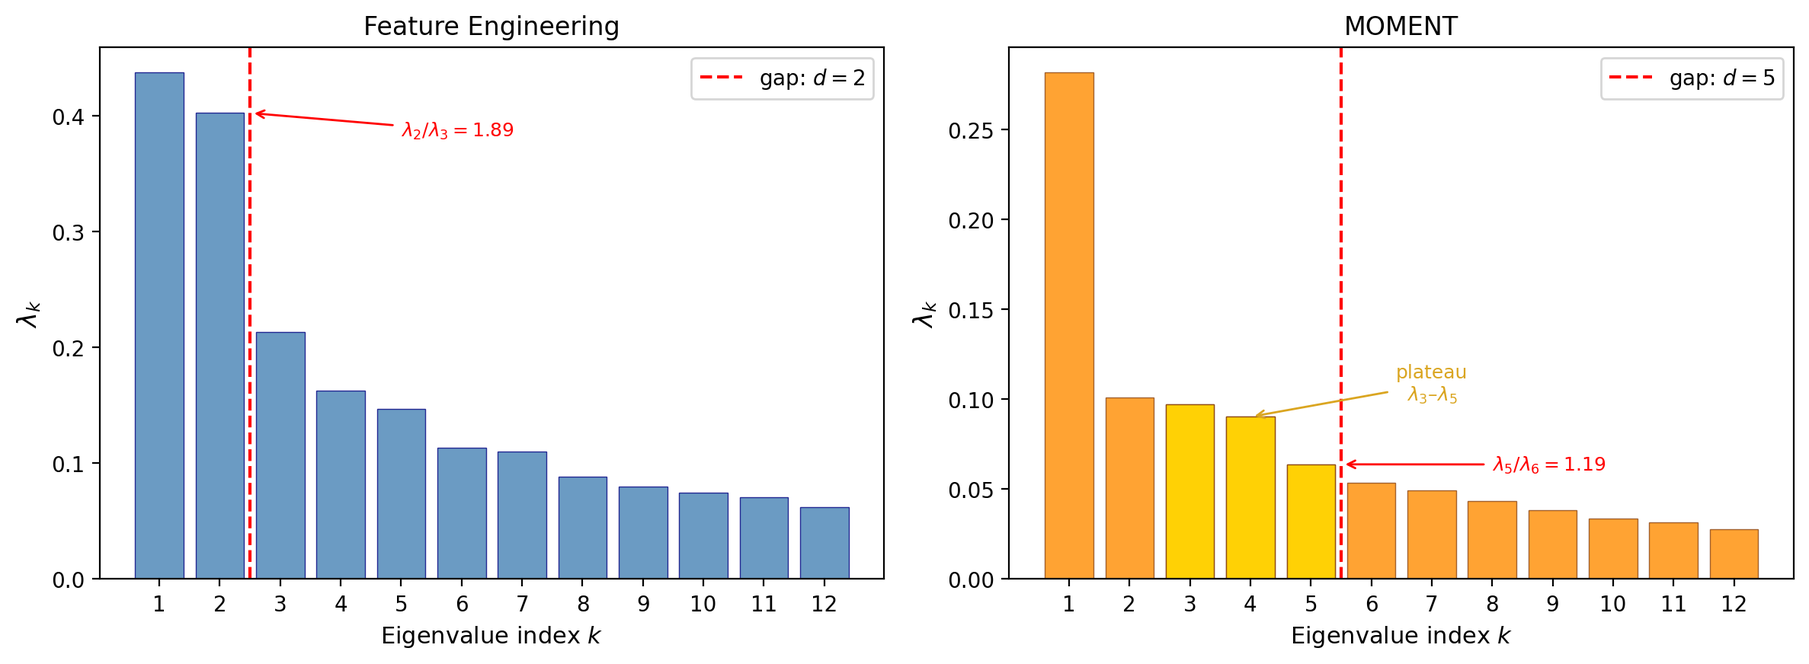
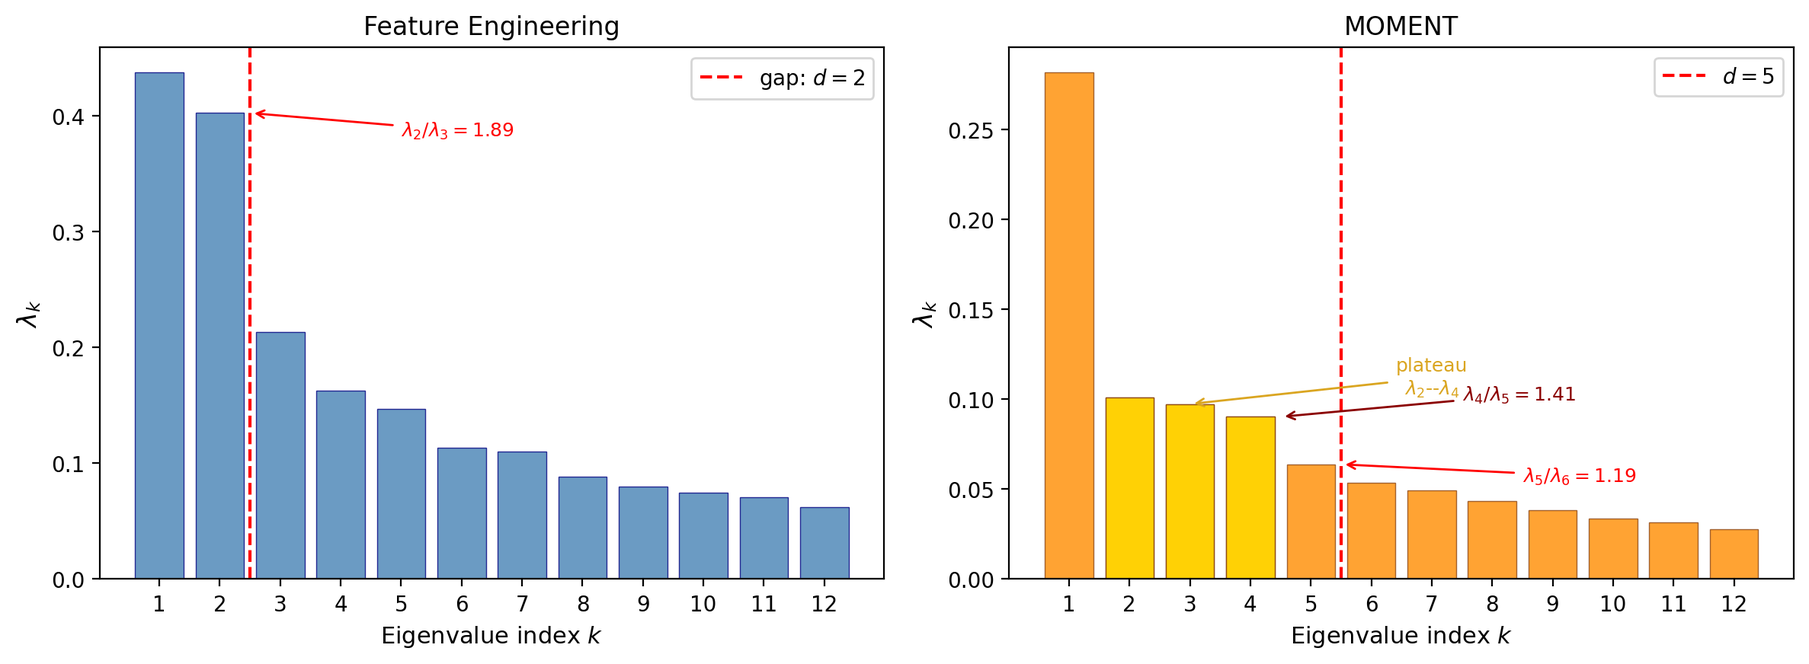
Revisione completa figure e testo: coerenza, ordine assi, correzioni numeriche
Figure:
- spectral_gap.png: annotazioni corrette (plateau lambda2-4, gap lambda4/5=1.41)
- axes_evidence.png: rigenerata con ordine E8->E1, D7->D8
- ari_heatmap.png: nuova heatmap ExD (sostituisce scatter mismatch)
- alpha_heatmap.png: rigenerata con ordine corretto, D8 incluso
- merge_process_dynamic.png: uniformata a 1500x750 (landscape)
- Figura 1 pipeline: ingrandita 0.52->0.65
- Scatter quadranti: rimesso in §5 come figura separata (fig:quadrants)

Testo:
- "assi indipendenti" -> "quasi ortogonali" (hook, fig pipeline, conclusioni)
- "tutti i parametri emergono" -> "numero regimi e dimensionalita' emergono"
- "Nessun altro FM" -> "MOMENT particolarmente adatto perche'..."
- 15 feature: corretto 11 distrib + 1 volatilita' + 3 LMP
- "tre linee di evidenza" -> "prima... seconda" (rimosso terza inesistente)
- Spectral gap testo: corretto plateau e rapporti
- Caption MC trajectories: rimosso ±2sigma invisibile
- Caption merge economico: corretta per descrivere boxplot
- Microstruttura: riformulata come interpretazione

Changed region(s): [[0.5922, 0.5264, 0.8728, 0.867], [0.6858, 0.6812, 0.904, 0.867], [0.904, 0.0929, 0.9975, 0.1548]]

diff --git a/paper/paper_v10_it.tex b/paper/paper_v10_it.tex
@@ -50,7 +50,7 @@
 \begin{abstract}
 I regimi del mercato elettrico vengono convenzionalmente descritti lungo una singola dimensione, il livello di prezzo.
 Dimostriamo che questa visione trascura un intero asse della struttura di mercato.
-Applicando una metodologia interamente non supervisionata e guidata dai dati, senza ipotesi sul numero di regimi, senza etichette fornite a priori e senza alcun parametro fissato in anticipo, a cinque anni di prezzi orari di ISO New England, scopriamo due assi statisticamente indipendenti di organizzazione dei regimi: è la struttura stessa dei dati a rivelare quanti regimi esistono e come si organizzano.
+Applicando una metodologia interamente non supervisionata e guidata dai dati, senza specificare a priori il numero di regimi né fornire etichette predefinite, a cinque anni di prezzi orari di ISO New England, scopriamo due assi quasi ortogonali di organizzazione dei regimi: è la struttura stessa dei dati a rivelare quanti regimi esistono e come si organizzano.
 Un asse economico, derivato da statistiche descrittive specifiche del dominio, separa i regimi per livello di prezzo, dall'off-peak allo spike estremo invernale.
 Un asse dinamico, derivato da una rete neurale pre-addestrata su centinaia di migliaia di serie temporali eterogenee e applicata senza alcun addestramento specifico sui dati elettrici, separa i regimi per persistenza temporale, dalla mean-reversion rapida agli stati in cui gli shock perdurano per giorni.
 I due assi sono praticamente indipendenti: conoscere il regime di prezzo non fornisce quasi alcuna informazione sul regime dinamico, e viceversa.
@@ -67,116 +67,64 @@ La struttura bidimensionale consente di costruire un modello mean-reverting cond
 \section{Introduzione}
 \label{sec:introduction}
 
-Il mercato elettrico è organizzato lungo due assi indipendenti, non uno.
+Il mercato elettrico è organizzato lungo due assi quasi ortogonali, non uno.
 Oltre al livello di prezzo, l'unica dimensione catturata dai modelli convenzionali, esiste un asse di persistenza temporale che determina quanto a lungo uno shock si propaga nel sistema.
 I due assi sono quasi ortogonali: conoscere il regime di prezzo non dice quasi nulla sulla velocità di mean-reversion, e viceversa.
-Questo lavoro scopre questa struttura bidimensionale attraverso una pipeline interamente non supervisionata e ne quantifica le conseguenze per la modellazione e la gestione del rischio.
+Questo lavoro scopre questa struttura bidimensionale attraverso una pipeline non supervisionata e ne quantifica le conseguenze per la modellazione e la gestione del rischio.
 
 % --- 1.1 Il contesto economico ---
 
-L'elettricità viene scambiata su mercati all'ingrosso dove il prezzo può cambiare ogni ora.
-A differenza del petrolio, del grano o di altre materie prime, l'elettricità non può essere immagazzinata in grandi quantità a costi ragionevoli: la capacità di batterie e pompaggio idroelettrico copre solo una piccola frazione della domanda totale.
-Di conseguenza, l'offerta deve eguagliare la domanda in ogni istante, e il prezzo riflette il costo dell'ultimo generatore necessario per mantenere il sistema in equilibrio.
+L'elettricità non può essere immagazzinata a costi ragionevoli: l'offerta deve eguagliare la domanda in ogni istante, e il prezzo riflette il costo dell'ultimo generatore necessario per mantenere il sistema in equilibrio.
+I generatori vengono ordinati per costo di produzione in una graduatoria nota come merit order: quando la domanda è bassa i generatori economici sono sufficienti e i prezzi sono bassi, quando la domanda sale o l'offerta diminuisce il sistema ricorre a unità progressivamente più costose e il prezzo sale di conseguenza \citep{weron2014}.
+Negli Stati Uniti, i mercati elettrici all'ingrosso sono gestiti da Independent System Operators (ISO) che compensano domanda e offerta attraverso aste centralizzate producendo un Locational Marginal Price (LMP) per ogni nodo della rete.
+Questo lavoro si concentra su ISO New England (ISONE), ma la metodologia è applicabile a qualsiasi mercato nodale che produca LMP orari.
 
-Questo generatore, chiamato generatore marginale, è l'unità più costosa attualmente dispacciata.
-In pratica, i generatori vengono ordinati per costo di produzione (dal più economico) in una graduatoria nota come merit order.
-Quando la domanda è bassa (notti, fine settimana, clima mite), i generatori di base economici (nucleare, grandi turbine a gas) sono sufficienti e i prezzi sono bassi.
-Quando la domanda sale (ondate di calore, ondate di freddo) o l'offerta diminuisce (guasti ai generatori), il sistema deve ricorrere a unità progressivamente più costose, peaker a gas e, nei casi estremi, generatori a olio combustibile, e il prezzo sale di conseguenza.
-Questo meccanismo è il motore fondamentale della formazione dei regimi \citep{weron2014}.
-
-Negli Stati Uniti, i mercati elettrici all'ingrosso sono gestiti da Regional Transmission Organizations (RTO) e Independent System Operators (ISO).
-Queste entità compensano domanda e offerta attraverso aste centralizzate che producono un Locational Marginal Price (LMP) per ogni nodo della rete di trasmissione.
-Attualmente operano sette di queste organizzazioni, coprendo la maggior parte del paese; questo lavoro si concentra su ISO New England (ISONE), che serve i sei stati del New England.
-La metodologia, tuttavia, non è specifica per ISONE e può essere applicata a qualsiasi mercato nodale che produca LMP orari.
-
-La serie LMP presenta proprietà statistiche che la distinguono dalla maggior parte degli asset finanziari: code pesanti (spike estremi di prezzo), mean-reversion a scale temporali multiple, tre cicli stagionali sovrapposti --- un ciclo giornaliero (domanda giorno/notte), un ciclo settimanale (giorno feriale/fine settimana), e un ciclo annuale (domanda di riscaldamento invernale e raffrescamento estivo) --- e valori occasionalmente negativi quando la generazione rinnovabile eccede la domanda \citep{ziel2018, weron2006}.
-Questi cambiamenti di regime sono guidati da una confluenza di fattori (estremi meteorologici, shock dei prezzi del combustibile, intermittenza delle rinnovabili, vincoli di trasmissione e guasti ai generatori) le cui interazioni producono la dinamica complessa e non stazionaria che rende il rilevamento dei regimi tanto importante quanto difficile.
-
-Identificare il regime di mercato prevalente ha conseguenze pratiche dirette.
-Per gli operatori di mercato, strategie di copertura regime-dipendenti possono ridurre il Value-at-Risk condizionando gli aggiustamenti di portafoglio allo stato corrente del mercato \citep{coulon2014}.
-Per gli operatori di sistema e i regolatori, la permanenza prolungata in regimi ad alto prezzo segnala potenziali carenze nella struttura del mercato o la necessità di interventi di espansione della capacità.
-Per i previsori, i modelli regime-switching superano costantemente i benchmark a stato singolo permettendo alla distribuzione condizionata dei prezzi di adattarsi all'ambiente operativo corrente \citep{janczura2013, nowotarski2018}.
+La serie LMP presenta proprietà statistiche che la distinguono dalla maggior parte degli asset finanziari: code pesanti, mean-reversion a scale temporali multiple, tre cicli stagionali sovrapposti (giornaliero, settimanale, annuale) e valori occasionalmente negativi \citep{ziel2018, weron2006}.
+Identificare il regime di mercato prevalente ha conseguenze pratiche dirette per la copertura del rischio \citep{coulon2014}, la pianificazione della capacità e la previsione dei prezzi \citep{janczura2013, nowotarski2018}.
 
 % --- 1.2 Approcci esistenti e loro limiti ---
 
-Il rilevamento non supervisionato dei regimi nei mercati elettrici resta una sfida metodologica aperta.
-La letteratura ha affrontato il problema con tre famiglie principali di modelli, ciascuna catturando un aspetto diverso della struttura di mercato ma ciascuna con limiti significativi.
+Il rilevamento non supervisionato dei regimi nei mercati elettrici resta una sfida aperta \citep{weron2014}.
+La letteratura ha affrontato il problema con tre famiglie principali di modelli.
+Gli Hidden Markov Models (HMM) \citep{mount2006, hamilton1989} e i Gaussian Mixture Models (GMM) \citep{kanamura2009} richiedono di specificare il numero di stati \emph{a priori} e assumono distribuzioni parametriche che mal si adattano alle code pesanti dei prezzi elettrici \citep{bierbrauer2007}.
+I modelli mean-reverting a salti \citep{lucia2002, cartea2005} catturano la tendenza dei prezzi a tornare verso un livello di equilibrio, ma vincolano la velocità di mean-reversion a essere omogenea o al più modulata dal regime di prezzo.
+Lavori più recenti hanno esplorato K-means e clustering spettrale \citep{rintamaki2017}, ma dipendono ancora da un $K$ pre-specificato.
 
-Gli \textbf{Hidden Markov Models} (HMM) \citep{mount2006, hamilton1989} identificano stati latenti e le transizioni tra essi, ma richiedono di specificare il numero di stati \emph{a priori} e assumono che le osservazioni all'interno di ciascuno stato seguano una distribuzione parametrica prefissata.
-\citet{janczura2013} hanno trovato che i modelli a tre stati con varianza eterogenea forniscono il miglior fit per i prezzi Nord Pool, ma i criteri di informazione (BIC, AIC), gli strumenti standard per la selezione del numero di stati, sono notoriamente inaffidabili quando il vero processo generatore si discosta dalla famiglia parametrica assunta, quasi una certezza con i prezzi elettrici a code pesanti \citep{bierbrauer2007}.
+Questi approcci condividono un limite profondo: ciascuna famiglia cattura implicitamente una dimensione diversa del mercato (HMM e GMM separano i \emph{livelli di prezzo}, i modelli mean-reverting descrivono la \emph{dinamica temporale}), ma nessuno si chiede se queste dimensioni siano governate dallo stesso processo latente o da processi indipendenti.
+La letteratura ha documentato che entrambe presentano struttura propria: il volatility clustering \citep{cont2001} è presente nei prezzi elettrici, gli spike si aggregano in cluster persistenti \citep{christensen2009}, e la velocità con cui il mercato assorbe uno shock varia nel tempo e tra condizioni operative diverse \citep{karakatsani2008, knittel2005}.
+Eppure, un'unica etichetta di stato continua a collassare livello e dinamica in una sola variabile.
 
-I \textbf{Gaussian Mixture Models} (GMM) \citep{kanamura2009} partizionano le osservazioni in cluster gaussiani e sono spesso usati per separare i livelli di prezzo (off-peak, normale, spike), ma dipendono anch'essi da un $K$ pre-specificato e assumono cluster convessi e simmetrici, ipotesi difficilmente sostenibili con le distribuzioni a code pesanti tipiche dei mercati elettrici.
+Un mercato a \$100/MWh che tornerà a \$50 entro poche ore pone un rischio diverso da un mercato a \$100/MWh che resterà elevato per due settimane, eppure un'unica etichetta ``spike'' confonde i due casi \citep{huisman2003}.
+La letteratura ha accumulato evidenza che sia la volatilità sia la persistenza presentano una struttura propria, ma non ha mai verificato se questa struttura sia indipendente dal livello di prezzo.
+Questo lavoro colma questo gap.
 
-I \textbf{modelli mean-reverting a salti} \citep{lucia2002, cartea2005} catturano la tendenza dei prezzi a tornare verso un livello di equilibrio e sono il framework dominante per la modellazione della \emph{dinamica} dei prezzi.
-Tuttavia, vincolano la velocità di mean-reversion a essere omogenea o al più modulata dal regime di prezzo: la possibilità che la velocità di mean-reversion vari indipendentemente dal livello non è contemplata.
-La scelta tra un singolo parametro di mean-reversion e un parametro per regime resta una decisione di specificazione, non un risultato empirico.
+% --- 1.3 Nuovi strumenti ---
 
-Lavori più recenti hanno esplorato K-means e clustering spettrale \citep{rintamaki2017}, ma questi metodi dipendono ancora da un $K$ pre-specificato e faticano con geometrie non convesse e a densità variabile.
-
-Questi approcci condividono due limiti strutturali.
-Primo, la struttura viene imposta dall'alto: il numero di stati, la famiglia distributiva e tutti i parametri sono fissati prima di vedere i dati.
-Secondo, e più sottilmente, ciascuna famiglia cattura implicitamente una dimensione diversa del mercato: HMM e GMM separano i \emph{livelli di prezzo}, i modelli mean-reverting descrivono la \emph{dinamica temporale}.
-La letteratura ha ampiamente documentato che entrambe le dimensioni presentano struttura: il volatility clustering, uno degli stylized fact più robusti dei mercati finanziari \citep{cont2001}, è presente anche nei prezzi elettrici, e gli spike tendono ad aggregarsi in cluster persistenti piuttosto che presentarsi isolati \citep{christensen2009}.
-Tuttavia, nessun approccio si chiede se queste due dimensioni siano governate dallo stesso processo latente o da processi indipendenti: la domanda viene semplicemente elusa, e un'unica etichetta di stato collassa livello e dinamica in una sola variabile.
-Come osservato da \citet{weron2014} in una rassegna completa, l'identificazione dei regimi resta ``uno dei problemi più impegnativi del settore''.
-
-% --- 1.3 La natura multidimensionale dei regimi ---
-
-Un limite chiave degli approcci esistenti è che descrivono lo stato di mercato con una singola etichetta.
-Tuttavia un regime di mercato ha almeno due dimensioni distinte.
-La prima è il \emph{livello di prezzo}: quanto è costosa l'elettricità in questo momento --- off-peak, normale o spike?
-La seconda è la \emph{dinamica dei prezzi}: come si comporta il prezzo nel tempo --- ritorna rapidamente al suo livello normale dopo uno shock, oppure lo shock persiste per giorni?
-Queste due dimensioni portano informazioni diverse.
-Un mercato a \$100/MWh che tornerà a \$50 entro poche ore pone un rischio diverso da un mercato a \$100/MWh che resterà elevato per due settimane, eppure un'unica etichetta di regime (``spike'') confonde i due casi.
-Che la dinamica intra-giornaliera dei prezzi elettrici sia eterogenea è stato documentato empiricamente \citep{karakatsani2008, knittel2005}: la velocità con cui il mercato assorbe uno shock varia nel tempo e tra condizioni operative diverse.
-Tuttavia, i modelli regime-switching esistenti \citep{huisman2003} assegnano un singolo stato latente che governa simultaneamente sia il livello di prezzo sia la dinamica della volatilità, assumendo implicitamente che le due dimensioni siano guidate dallo stesso processo.
-Se questa assunzione sia valida, se cioè livello e dinamica siano effettivamente accoppiati o varino indipendentemente, è una domanda empirica che non è stata testata.
-In sintesi, la letteratura ha accumulato evidenza che sia la volatilità sia la persistenza dei prezzi elettrici presentano una struttura propria, ma non ha mai verificato se questa struttura sia indipendente dal livello di prezzo.
-Questo lavoro colma esattamente questo gap.
-
-% --- 1.4 Nuovi strumenti ---
-
-Due sviluppi recenti creano l'opportunità di testare questa ipotesi, e, aspetto cruciale, di farlo in modo interamente non supervisionato e guidato dai dati, eliminando ogni possibilità che scelte soggettive predeterminino il risultato.
-Primo, i foundation model per serie temporali \citep{yeh2023}.
-Un foundation model è una rete neurale di grandi dimensioni addestrata una sola volta su un corpus molto vasto e diversificato, centinaia di migliaia di serie temporali da domini eterogenei (meteorologia, finanza, sanità, ingegneria), e poi riutilizzabile su qualsiasi nuova serie senza alcun addestramento aggiuntivo.
-Questo pre-addestramento su larga scala costituisce il valore centrale dei foundation model: l'enorme diversità di pattern temporali osservati durante l'addestramento (trend, stagionalità, persistenza, cambi di regime, code pesanti) viene condensata nei parametri della rete, creando un patrimonio di conoscenze trasferibile a qualsiasi nuovo dominio applicativo.
-Nel contesto dei rapidi sviluppi dell'intelligenza artificiale, i foundation model rappresentano uno strumento sempre più centrale per l'analisi delle serie temporali, poiché permettono di sfruttare la conoscenza accumulata su centinaia di migliaia di serie senza il costo di un addestramento dedicato.
-Il modello è così in grado di produrre rappresentazioni numeriche che riassumono la struttura temporale di una finestra di input senza alcuna conoscenza specifica del dominio di applicazione.
-A differenza dei modelli tradizionali che richiedono la progettazione manuale delle feature, e a differenza degli HMM e GMM che richiedono la specificazione del numero di stati, un foundation model applicato senza alcun addestramento sui dati in esame scopre autonomamente quali pattern temporali sono rilevanti.
+Due sviluppi recenti creano l'opportunità di testare questa ipotesi.
+Primo, i foundation model per serie temporali \citep{yeh2023}: reti neurali di grandi dimensioni addestrate su centinaia di migliaia di serie temporali eterogenee (meteorologia, finanza, sanità, ingegneria), riutilizzabili su qualsiasi nuova serie senza addestramento aggiuntivo.
+La diversità di pattern osservati durante il pre-addestramento (trend, stagionalità, persistenza, cambi di regime) viene condensata nei parametri della rete, creando un patrimonio di conoscenze trasferibile a qualsiasi dominio \citep{tsfm_survey2025}.
 Non è necessario decidere cosa cercare: è il modello a trovare ciò che i dati contengono.
-Tra i foundation model disponibili, adottiamo MOMENT \citep{moment2024} perché soddisfa tre requisiti simultaneamente: è progettato specificamente per serie temporali (non adattato da modelli linguistici), fornisce una modalità nativa di embedding pensata per l'apprendimento delle rappresentazioni (non solo per la previsione), ed è interamente open source, con pesi, codice e dati di addestramento pubblicamente disponibili, garantendo la piena riproducibilità dei risultati.
-Nessun altro foundation model per serie temporali (Chronos, TimesFM, Moirai) soddisfa contemporaneamente tutti e tre i requisiti.
-Secondo, l'analisi topologica dei dati \citep{carlsson2009, edelsbrunner2010} offre metodi di clustering che determinano il numero di regimi direttamente dalla geometria dei dati, senza che sia necessario specificare $K$ in anticipo.
-Combinati, i due strumenti realizzano una pipeline in cui nessun parametro strutturale è fissato a priori: né il numero di regimi, né la dimensionalità delle rappresentazioni, né le feature da estrarre.
-Ad oggi, i foundation model per serie temporali sono stati applicati ai mercati elettrici esclusivamente per la previsione dei prezzi \citep{tsfm_epf_benchmark2025, pricefm2025} e per il rilevamento di anomalie \citep{tsfm_anomaly_energy2024} --- si veda \citet{tsfm_survey2025} per una rassegna completa --- mentre l'intero approccio qui proposto, utilizzare le rappresentazioni apprese da un foundation model come input per un clustering non supervisionato che scopra la struttura dei regimi, non ha precedenti nella letteratura sui mercati energetici.
+Tra i foundation model disponibili, adottiamo MOMENT \citep{moment2024} perché soddisfa tre requisiti: è progettato per serie temporali (non adattato da modelli linguistici), fornisce una modalità nativa di embedding per l'apprendimento delle rappresentazioni (non solo per la previsione), ed è interamente open source.
+MOMENT è particolarmente adatto perché, tra i foundation model disponibili al momento dello studio (Chronos, TimesFM, Moirai), è l'unico a soddisfare contemporaneamente tutti e tre i requisiti.
+Secondo, l'analisi topologica dei dati \citep{carlsson2009, edelsbrunner2010} offre metodi di clustering che determinano il numero di regimi direttamente dalla geometria dei dati, senza specificare $K$ in anticipo.
+Ad oggi, i foundation model sono stati applicati ai mercati elettrici solo per la previsione dei prezzi \citep{tsfm_epf_benchmark2025, pricefm2025} e il rilevamento di anomalie \citep{tsfm_anomaly_energy2024}; l'approccio qui proposto, utilizzare le loro rappresentazioni come input per un clustering non supervisionato, non ha precedenti nella letteratura sui mercati energetici.
 
-% --- 1.4 Domanda di ricerca ---
+% --- 1.4 Strategia e contributo ---
 
-Insieme, questi strumenti permettono di testare se livello e dinamica sono governati dalla stessa struttura latente o da processi indipendenti.
-La strategia consiste nel costruire due rappresentazioni degli stessi dati di prezzo, una che codifica le informazioni sul livello di prezzo attraverso statistiche specifiche del dominio e una che codifica le dinamiche temporali attraverso un foundation model, e nel clusterizzare ciascuna indipendentemente con lo stesso algoritmo non parametrico.
-È importante sottolineare che le due rappresentazioni non sono costruite su dati diversi, ma derivano entrambe dalla stessa serie di residui attraverso una trasformazione deterministica e invertibile: se il mercato fosse organizzato lungo una sola dimensione, entrambe le viste la catturerebbero e le partizioni risulterebbero concordi, mentre se discordano il mercato possiede \emph{almeno} due dimensioni indipendenti di organizzazione dei regimi e una singola etichetta è insufficiente.
-L'esperimento non pretende di esaurire tutte le possibili dimensioni della struttura di mercato: dimostra che ne esistono almeno due, e fornisce un framework (il confronto cross-ARI tra partizioni indipendenti) per cercarne altre.
+La strategia consiste nel costruire due rappresentazioni degli stessi dati di prezzo, una basata su statistiche specifiche del dominio e una su un foundation model, e nel clusterizzare ciascuna indipendentemente con lo stesso algoritmo non parametrico.
+Le due rappresentazioni derivano dalla stessa serie di residui attraverso una trasformazione deterministica e invertibile: se il mercato fosse organizzato lungo una sola dimensione, entrambe le viste la catturerebbero e le partizioni risulterebbero concordi.
 
-% --- 1.5 Contributo ---
-
-Questo lavoro fornisce una risposta.
 Il contributo è triplice.
-Primo, scopriamo un nuovo asse della struttura di mercato --- la persistenza temporale, che è statisticamente indipendente dal livello di prezzo e invisibile a qualsiasi modello che descriva il mercato con un'unica etichetta di stato.
-Secondo, la scoperta emerge da una pipeline interamente non supervisionata e guidata dai dati (Figura~\ref{fig:pipeline}): nessuna etichetta è fornita a priori, nessun numero di regimi è ipotizzato in anticipo, nessun parametro strutturale è prefissato.
-È la struttura stessa dei dati a determinare quanti regimi esistono, quante dimensioni servono a descriverli e quali variabili li separano.
-Terzo, l'asse dinamico è scoperto da un foundation model per serie temporali (MOMENT) applicato senza alcun addestramento specifico sui dati elettrici, senza fine-tuning, senza esposizione a dati di mercato durante il pre-addestramento, e senza intervento umano nella selezione delle feature.
-Il modello riceve esclusivamente i residui destagionalizzati $r_t$, senza accesso al livello di prezzo: qualsiasi struttura catturi proviene puramente dalla dinamica temporale della serie.
-Questa tripla indipendenza, dal dominio, da ipotesi soggettive e dalla supervisione, rende il risultato particolarmente robusto: non viene deciso a priori cosa cercare, ma sono i dati stessi a rivelare che la persistenza è la dimensione organizzativa dominante non catturata dalle statistiche distribuzionali.
+Primo, scopriamo un asse della struttura di mercato, la persistenza temporale, che è statisticamente indipendente dal livello di prezzo.
+Secondo, il numero di regimi non è specificato a priori ma emerge dalla struttura dei dati attraverso una pipeline non supervisionata (Figura~\ref{fig:pipeline}).
+Terzo, l'asse dinamico è scoperto da MOMENT applicato senza alcun addestramento sui dati elettrici: il modello riceve esclusivamente i residui destagionalizzati $r_t$, senza accesso al livello di prezzo, e qualsiasi struttura catturi proviene dalla dinamica temporale della serie.
 
-La pipeline (Figura~\ref{fig:pipeline}) prima preprocessa la serie oraria dei prezzi~(a), poi costruisce due rappresentazioni delle stesse finestre scorrevoli --- feature costruite manualmente~(b) e un embedding da foundation model~(c).
-Ciascuna rappresentazione viene ridotta a poche coordinate tramite Diffusion Maps~(d) e partizionata in modi di densità da ToMATo~(e).
-Una diagnostica di separazione delle feature~(f) valuta tutte le 15 feature interpretabili rispetto a entrambi gli insiemi di modi per scoprire cosa separa ciascuna rappresentazione, e la variabile di merge risultante viene utilizzata per consolidare i modi tramite Tukey HSD~(g).
-Applicando questa pipeline a cinque anni di LMP orari di ISO New England, troviamo che le due partizioni risultanti sono statisticamente indipendenti: il mercato elettrico è organizzato lungo almeno due assi ortogonali di struttura dei regimi, uno economico e uno dinamico.
+La pipeline (Figura~\ref{fig:pipeline}) preprocessa la serie oraria dei prezzi~(a), costruisce le due rappresentazioni~(b,c), riduce ciascuna a poche coordinate tramite Diffusion Maps~(d), identifica i modi di densità con ToMATo~(e), determina la variabile di merge tramite una diagnostica di separazione~(f), e consolida i modi tramite Tukey HSD~(g).
 
 % ── Diagramma della pipeline ─────────────────────────────────────────────────
 \begin{figure}[H]
 \centering
-\resizebox{0.52\textwidth}{!}{%
+\resizebox{0.65\textwidth}{!}{%
 \begin{tikzpicture}[
   font=\small,
   >=Latex,
@@ -211,7 +159,7 @@ Applicando questa pipeline a cinque anni di LMP orari di ISO New England, trovia
 \node[box, fill=gray!6, below=of tukey] (regimes) {\textbf{Regimi finali}};
 
 \node[box, fill=yellow!10, draw=red!50, dashed, thick, below=of regimes]
-  (axes) {\textcolor{red!65!black}{\textbf{Due assi indipendenti}}};
+  (axes) {\textcolor{red!65!black}{\textbf{Due assi quasi ortogonali}}};
 
 % Arrows — main flow
 \draw[arr] (lmp) -- (pre);
@@ -510,7 +458,7 @@ Tutte le analisi successive sono indicizzate da $i = 1, \ldots, 7217$.
 \section{Pipeline}
 \label{sec:pipeline}
 
-La pipeline (Figura~\ref{fig:pipeline}) è completamente non supervisionata: il numero di regimi e tutti i parametri emergono dai dati.
+La pipeline (Figura~\ref{fig:pipeline}) è non supervisionata: il numero di regimi emerge dai dati senza essere specificato a priori.
 Consiste in cinque fasi: (i)~rappresentazione, (ii)~riduzione dimensionale, (iii)~clustering topologico, (iv)~diagnostica di separazione, (v)~merge statistico.
 Ogni fase è applicata indipendentemente ai due rami (FE e MOMENT), ma con gli stessi criteri algoritmici: le eventuali differenze nei risultati riflettono i dati, non scelte soggettive.
 
@@ -628,13 +576,13 @@ Gli autovettori dominanti di $T$ forniscono le coordinate di diffusione:
 \end{equation}
 La dimensionalità $d$ è determinata dallo stesso criterio per entrambi i rami: il \textbf{gap spettrale} degli autovalori.
 Per FE, il gap è netto tra $\lambda_2$ e $\lambda_3$ (rapporto 1,89), dando $d = 2$.
-Per MOMENT, un plateau ($\lambda_3$--$\lambda_5$, rapporti $\approx 1{,}04$--$1{,}08$) indica segnale residuo; il gap successivo è a $\lambda_5/\lambda_6 = 1{,}41$, dando $d = 5$.
+Per MOMENT, un plateau ($\lambda_2$--$\lambda_4$, rapporti $\approx 1{,}04$--$1{,}08$) indica segnale residuo; il gap più netto è a $\lambda_4/\lambda_5 = 1{,}41$, seguito da un rapporto $\lambda_5/\lambda_6 = 1{,}19$ ancora moderato. La pipeline adotta $d = 5$ per includere il segnale residuo di $\lambda_5$.
 La Figura~\ref{fig:spectral_gap} mostra il decadimento degli autovalori per entrambe le rappresentazioni: le barre indicano l'importanza di ciascuna coordinata di diffusione e la linea rossa segna il punto dove il segnale cede al rumore.
 
 \begin{figure}[H]
 \centering
 \includegraphics[width=\textwidth]{spectral_gap.png}
-\caption{Gap spettrale delle Diffusion Maps. Ogni barra rappresenta un autovalore (coordinata di diffusione), ordinato per importanza decrescente. A sinistra (FE): il salto netto dopo $\lambda_2$ indica che due coordinate bastano a catturare la struttura. A destra (MOMENT): le coordinate 3--5 formano un plateau di valori simili (tutte contribuiscono al segnale), seguito da un salto dopo $\lambda_5$ che segna il confine con il rumore. La linea rossa tratteggiata indica la dimensionalità scelta ($d = 2$ per FE, $d = 5$ per MOMENT).}
+\caption{Gap spettrale delle Diffusion Maps. Ogni barra rappresenta un autovalore (coordinata di diffusione), ordinato per importanza decrescente. A sinistra (FE): il salto netto dopo $\lambda_2$ ($\lambda_2/\lambda_3 = 1{,}89$) indica che due coordinate bastano a catturare la struttura. A destra (MOMENT): le coordinate 2--4 formano un plateau di valori simili (rapporti $\approx 1{,}04$--$1{,}08$), il gap principale cade tra $\lambda_4$ e $\lambda_5$ ($\lambda_4/\lambda_5 = 1{,}41$), e $\lambda_5$ conserva ancora segnale residuo ($\lambda_5/\lambda_6 = 1{,}19$). La pipeline adotta $d = 5$ per includere questo segnale.}
 \label{fig:spectral_gap}
 \end{figure}
 
@@ -750,7 +698,7 @@ La Figura~\ref{fig:merge_process} illustra il merge: i 48 modi iniziali collassa
 \begin{figure}[H]
 \centering
 \includegraphics[width=0.85\textwidth]{merge_process.png}
-\caption{Merge Tukey HSD sull'asse economico. In alto: 48 modi iniziali ToMATo, rappresentati per LMP medio. Molti modi hanno prezzi quasi identici. In basso: dopo il merge iterativo, sopravvivono 9 regimi, ciascuno significativamente diverso da tutti gli altri.}
+\caption{Distribuzione dell'LMP medio nei 9 regimi economici dopo merge Tukey HSD (da 48 modi iniziali). Ogni boxplot mostra la distribuzione dell'LMP medio delle finestre assegnate al regime. I regimi sono ordinati per LMP crescente e annotati con dimensione campionaria e prezzo medio.}
 \label{fig:merge_process}
 \end{figure}
 
@@ -851,7 +799,8 @@ Questo conferma che l'asse dinamico cattura una dimensione genuinamente indipend
 Terzo, la volatilità ($\sigma_r$) cresce con la persistenza: i regimi a rapida reversione hanno $\sigma_r \approx 0{,}12$, i più persistenti $\sigma_r \approx 0{,}48$.
 Questo accoppiamento persistenza--volatilità richiama uno degli stylized fact più robusti dei mercati finanziari, il volatility clustering \citep{cont2001}: periodi di alta volatilità tendono a raggrupparsi e a persistere nel tempo.
 Nei mercati finanziari tradizionali, questo fenomeno è tipicamente modellato come effetto autoregressivo della varianza condizionata (GARCH).
-Qui, invece, emerge come proprietà strutturale del regime: non è la volatilità di ieri a predire quella di oggi, ma è lo stato fisico del sistema (congestioni, inerzia del parco di generazione, vincoli di rampa) a determinare simultaneamente sia la persistenza sia l'ampiezza degli shock.
+Qui, invece, emerge come proprietà strutturale del regime: non è la volatilità di ieri a predire quella di oggi, ma lo stato operativo del sistema a determinare simultaneamente sia la persistenza sia l'ampiezza degli shock.
+Un'interpretazione economica coerente è che fattori come congestioni di rete, inerzia del parco di generazione e vincoli di rampa producano condizioni in cui gli shock sono al tempo stesso ampi e lenti a rientrare, sebbene la verifica causale di questa ipotesi richiederebbe l'integrazione di variabili esogene (carico, prezzi del combustibile, meteo) non utilizzate in questo lavoro.
 La letteratura sulla persistenza degli spike nei mercati elettrici \citep{christensen2009} ha documentato come gli eventi estremi tendano ad aggregarsi in cluster piuttosto che presentarsi isolati, un fenomeno coerente con i regimi ad alta persistenza ($D_3$, $D_8$) che osserviamo.
 
 
@@ -882,15 +831,12 @@ Chiamiamo questa proprietà \emph{quasi-ortogonalità}.
 
 \begin{figure}[H]
 \centering
-\includegraphics[width=0.58\textwidth]{two_axis_grid.png}
-\caption{Griglia dei regimi $E \times D$. Ogni cella rappresenta una combinazione prezzo--persistenza; l'intensità del colore indica il numero di finestre. Se i due assi fossero ridondanti (ARI $\approx 1$), le finestre si concentrerebbero sulla diagonale. La distribuzione diffusa (70 celle su 81 popolate, ARI $= 0{,}012$) conferma che i due assi sono quasi ortogonali.}
+\includegraphics[width=0.65\textwidth]{ari_heatmap.png}
+\caption{Heatmap della griglia $E \times D$. Ogni cella rappresenta una combinazione prezzo--persistenza; l'intensità del colore indica il numero di finestre. Se i due assi fossero ridondanti (ARI $\approx 1$), le finestre si concentrerebbero sulla diagonale. La distribuzione diffusa (70 celle su 81 popolate, ARI $= 0{,}012$) conferma che i due assi sono quasi ortogonali.}
 \label{fig:ari_grid}
 \end{figure}
 
-L'ARI è la prima di tre linee di evidenza indipendenti a supporto di questa quasi-ortogonalità.
-
-% --- Evidenza 2: separazione visiva ---
-La seconda è visiva.
+Il valore dell'ARI è la prima evidenza a supporto della quasi-ortogonalità. La seconda è visiva.
 La Figura~\ref{fig:axes_evidence} mostra ciascuna partizione contro ciascuna variabile di mercato in un layout $2\times 2$.
 Il pannello~(a) mostra i regimi FE contro l'LMP: una scala monotona netta dove ogni regime occupa una banda di prezzo distinta --- FE separa il livello di prezzo.
 Il pannello~(b) mostra i regimi MOMENT contro l'LMP: le distribuzioni si sovrappongono pesantemente, senza gradiente di prezzo --- MOMENT non separa il livello di prezzo.
@@ -906,9 +852,7 @@ Ogni rappresentazione cattura una dimensione che l'altra in gran parte ignora.
 \label{fig:axes_evidence}
 \end{figure}
 
-% --- Evidenza 3: quattro quadranti ---
-
-L'indipendenza statistica dei due assi solleva una domanda immediata: questa struttura bidimensionale ha conseguenze pratiche, o è solo un'osservazione statistica?
+La quasi-ortogonalità dei due assi solleva una domanda immediata: questa struttura bidimensionale ha conseguenze pratiche, o è solo un'osservazione statistica?
 Le sezioni seguenti dimostrano che l'omissione dell'asse dinamico --- la condizione operativa di tutti i modelli regime-switching che utilizzano un'unica etichetta di stato --- produce distorsioni sistematiche e quantificabili nell'allocazione del rischio.
 
 
@@ -1004,7 +948,7 @@ La corrispondenza tra traiettorie empiriche e simulate conferma che il modello m
 \begin{figure}[H]
 \centering
 \includegraphics[width=\textwidth]{mc_trajectories.png}
-\caption{Traiettorie empiriche (sopra, blu) e Monte Carlo simulate (sotto, rosso) per tre regimi dinamici all'interno di $E_3$ (Baseload, \$41/MWh). A sinistra: rapida reversione ($\alpha = 0{,}159$, half-life 4\,h). Al centro: moderata ($\alpha = 0{,}060$, half-life 11\,h). A destra: persistente ($\alpha = 0{,}031$, half-life 22\,h). L'area ombreggiata indica l'inviluppo teorico $\pm 2\sigma_\infty$. Tutte le finestre provengono dallo stesso regime di prezzo ma mostrano dinamiche qualitativamente diverse.}
+\caption{Traiettorie empiriche (sopra, blu) e Monte Carlo simulate (sotto, rosso) per tre regimi dinamici all'interno di $E_3$ (Baseload, \$41/MWh). A sinistra: rapida reversione ($\alpha = 0{,}159$, half-life 4\,h). Al centro: moderata ($\alpha = 0{,}060$, half-life 11\,h). A destra: persistente ($\alpha = 0{,}031$, half-life 22\,h). Tutte le finestre provengono dallo stesso regime di prezzo ma mostrano dinamiche qualitativamente diverse.}
 \label{fig:mc_trajectories}
 \end{figure}
 
@@ -1070,11 +1014,11 @@ La distorsione è asimmetrica per costruzione: un unico $\alpha$ mediato produce
 Questa inefficienza allocativa non è risolvibile affinando la stima di $\alpha(E)$: il problema non è nella precisione della stima, ma nel fatto che il parametro è vincolato a un asse che non lo governa.
 
 \paragraph{L'asse D e la microstruttura del mercato.}
-Dal punto di vista della microstruttura, l'asse $D$ mappa l'elasticità temporale dell'offerta e i vincoli fisici della rete --- congestioni, rampe di accensione dei generatori termici, inerzia del parco di generazione --- che sono per loro natura ortogonali al livello nominale del prezzo.
+Dal punto di vista della microstruttura, un'interpretazione plausibile è che l'asse $D$ rifletta l'elasticità temporale dell'offerta e i vincoli operativi della rete, come congestioni, rampe di accensione dei generatori termici e inerzia del parco di generazione, fattori che sono per loro natura indipendenti dal livello nominale del prezzo.
 Un mercato può trovarsi simultaneamente in un regime di prezzo elevato e in condizione di rapida mean-reversion (uno spike transitorio da picco di domanda che rientra in poche ore) oppure in un regime di prezzo moderato ma con persistenza elevata (un prolungato stress da offerta durante un'ondata di calore estiva).
 
 Il modello convenzionale a singola etichetta di regime non è in grado di rappresentare queste combinazioni.
-L'asse dinamico, scoperto dalla pipeline senza alcuna assunzione parametrica, fornisce la dimensione mancante e consente una caratterizzazione del rischio che riflette i vincoli fisici del mercato, non solo il suo livello nominale di prezzo.
+L'asse dinamico, scoperto dalla pipeline senza alcuna assunzione parametrica, fornisce la dimensione mancante e consente una caratterizzazione del rischio che va oltre il livello nominale di prezzo.
 
 
 % ══════════════════════════════════════════════════════════════════════════════
@@ -1148,14 +1092,19 @@ Le metriche temporali dell'asse dinamico non sono riportate perché i regimi $D$
 
 I due assi hanno conseguenze pratiche dirette.
 L'asse economico risponde a \emph{quanto} costa l'elettricità; l'asse dinamico risponde a \emph{come} si comporterà il prezzo nelle ore e nei giorni successivi.
-Tutte e quattro le combinazioni di prezzo alto/basso e mean-reversion rapida/lenta sono popolate (Figura~\ref{fig:ari_grid}), ciascuna con un significato operativo distinto.
+Tutte e quattro le combinazioni di prezzo alto/basso e mean-reversion rapida/lenta sono popolate (Figura~\ref{fig:quadrants}), ciascuna con un significato operativo distinto.
 Gli stati ad alto prezzo e rapida reversione (18\% delle finestre) sono spike transitori che si risolvono rapidamente; una copertura aggressiva pagherebbe troppo.
 Gli stati ad alto prezzo e shock-persistenti (32\%) sono eventi di stress prolungati, tipicamente ondate di freddo invernale, dove la copertura è giustificata e le riserve di emergenza possono esaurirsi.
 Gli stati a basso prezzo e rapida reversione (32\%) sono mercati calmi con clima mite dove le operazioni normali sono sufficienti.
 Gli stati a basso prezzo e sticky (18\%) sono periodi prolungati di prezzi moderati o bassi dove il rischio di curtailment delle rinnovabili è elevato e gli operatori di stoccaggio dovrebbero caricare.
 Un'etichetta convenzionale a singolo asse ``spike'' raggruppa eventi ad alto prezzo transitori e persistenti, anche se i loro profili di rischio sono qualitativamente diversi.
 
-La griglia $E \times D$ (Figura~\ref{fig:ari_grid}) conferma che tutti e quattro i quadranti sono popolati.
+\begin{figure}[H]
+\centering
+\includegraphics[width=0.65\textwidth]{two_axis_grid.png}
+\caption{Spazio dei regimi a due assi. Ogni punto è una finestra, posizionata per LMP medio (asse orizzontale) e ACF al lag 6\,h (asse verticale). I quattro quadranti (prezzo alto/basso $\times$ persistenza alta/bassa) sono tutti popolati, confermando che le due dimensioni variano indipendentemente.}
+\label{fig:quadrants}
+\end{figure}
 
 % --- Perché MOMENT cattura le dinamiche ---
 
@@ -1199,15 +1148,15 @@ La finestra di 512 ore impone una scala temporale minima, e la pipeline è retro
 \section{Conclusioni}
 \label{sec:conclusion}
 
-Questo lavoro introduce una pipeline non parametrica per il rilevamento non supervisionato dei regimi nei mercati elettrici spot, in cui il numero di regimi, la dimensionalità della varietà e tutti i parametri di regolazione emergono dai dati attraverso l'analisi della persistenza topologica.
-Applicando questa pipeline a cinque anni di prezzi orari di ISO New England con due rappresentazioni alternative, arriviamo a una scoperta strutturale: il mercato elettrico è organizzato lungo almeno due assi indipendenti di struttura dei regimi.
+Questo lavoro introduce una pipeline non parametrica per il rilevamento non supervisionato dei regimi nei mercati elettrici spot, in cui il numero di regimi e la dimensionalità effettiva delle rappresentazioni emergono dai dati attraverso l'analisi della persistenza topologica.
+Applicando questa pipeline a cinque anni di prezzi orari di ISO New England con due rappresentazioni alternative, arriviamo a una scoperta strutturale: il mercato elettrico è organizzato lungo almeno due assi quasi ortogonali di struttura dei regimi.
 
-Il primo asse è economico: 15 feature --- 12 distribuzionali sugli incrementi $\Delta r_t$ e 3 statistiche sull'LMP grezzo --- producono $K_E = 9$ regimi che vanno dall'off-peak allo spike estremo invernale.
+Il primo asse è economico: 15 feature, di cui 11 distribuzionali e una di volatilità infragiornaliera sugli incrementi $\Delta r_t$, più 3 statistiche sull'LMP grezzo, producono $K_E = 9$ regimi che vanno dall'off-peak allo spike estremo invernale.
 Questi regimi persistono per giorni e transitano gradualmente attraverso livelli di prezzo adiacenti.
 
 Il secondo asse è dinamico: MOMENT, operando sui livelli $r_t$, produce $K_D = 9$ regimi separati per persistenza temporale --- quanto rapidamente avviene la mean-reversion dopo uno shock.
 $K_E$ e $K_D$ emergono dalla stessa pipeline senza alcun intervento esterno.
-I due assi sono statisticamente indipendenti.
+I due assi sono quasi ortogonali.
 
 Nessuna singola rappresentazione è sufficiente: i regimi economici servono la copertura, i regimi dinamici servono la previsione, e i due devono essere impiegati in parallelo.
 

diff --git a/scripts/plot_spectral_gap.py b/scripts/plot_spectral_gap.py
@@ -73,9 +73,9 @@ ax.annotate(f"$\\lambda_2/\\lambda_3 = {r_fe:.2f}$",
 # MOMENT panel
 ax = axes[1]
 ax.bar(idx, evals_mom[1:n_show+1], color="darkorange", alpha=0.8, edgecolor="saddlebrown", linewidth=0.5)
-ax.axvline(x=5.5, color="red", linestyle="--", linewidth=1.5, label="gap: $d=5$")
-# Highlight plateau
-for i in [3, 4, 5]:
+ax.axvline(x=5.5, color="red", linestyle="--", linewidth=1.5, label="$d=5$")
+# Highlight plateau (lambda2-lambda4)
+for i in [2, 3, 4]:
     ax.bar(i, evals_mom[i], color="gold", alpha=0.9, edgecolor="saddlebrown", linewidth=0.5)
 ax.set_xlabel("Eigenvalue index $k$", fontsize=11)
 ax.set_ylabel("$\\lambda_k$", fontsize=12)
@@ -84,13 +84,18 @@ ax.set_xticks(idx)
 ax.legend(fontsize=10)
 
 # Annotate plateau and gap
-ax.annotate("plateau\n$\\lambda_3$–$\\lambda_5$",
-            xy=(4, evals_mom[4]), xytext=(7, evals_mom[3]*1.02),
+ax.annotate("plateau\n$\\lambda_2$--$\\lambda_4$",
+            xy=(3, evals_mom[3]), xytext=(7, evals_mom[2]*1.02),
             fontsize=9, arrowprops=dict(arrowstyle="->", color="goldenrod"),
             color="goldenrod", ha="center")
-r_mom = evals_mom[5] / evals_mom[6]
-ax.annotate(f"$\\lambda_5/\\lambda_6 = {r_mom:.2f}$",
-            xy=(5.5, evals_mom[5]), xytext=(8, evals_mom[5]*0.95),
+r_mom_main = evals_mom[4] / evals_mom[5]
+ax.annotate(f"$\\lambda_4/\\lambda_5 = {r_mom_main:.2f}$",
+            xy=(4.5, evals_mom[4]), xytext=(7.5, evals_mom[4]*1.1),
+            fontsize=9, arrowprops=dict(arrowstyle="->", color="darkred"),
+            color="darkred")
+r_mom_5 = evals_mom[5] / evals_mom[6]
+ax.annotate(f"$\\lambda_5/\\lambda_6 = {r_mom_5:.2f}$",
+            xy=(5.5, evals_mom[5]), xytext=(8.5, evals_mom[5]*0.85),
             fontsize=9, arrowprops=dict(arrowstyle="->", color="red"),
             color="red")
 
